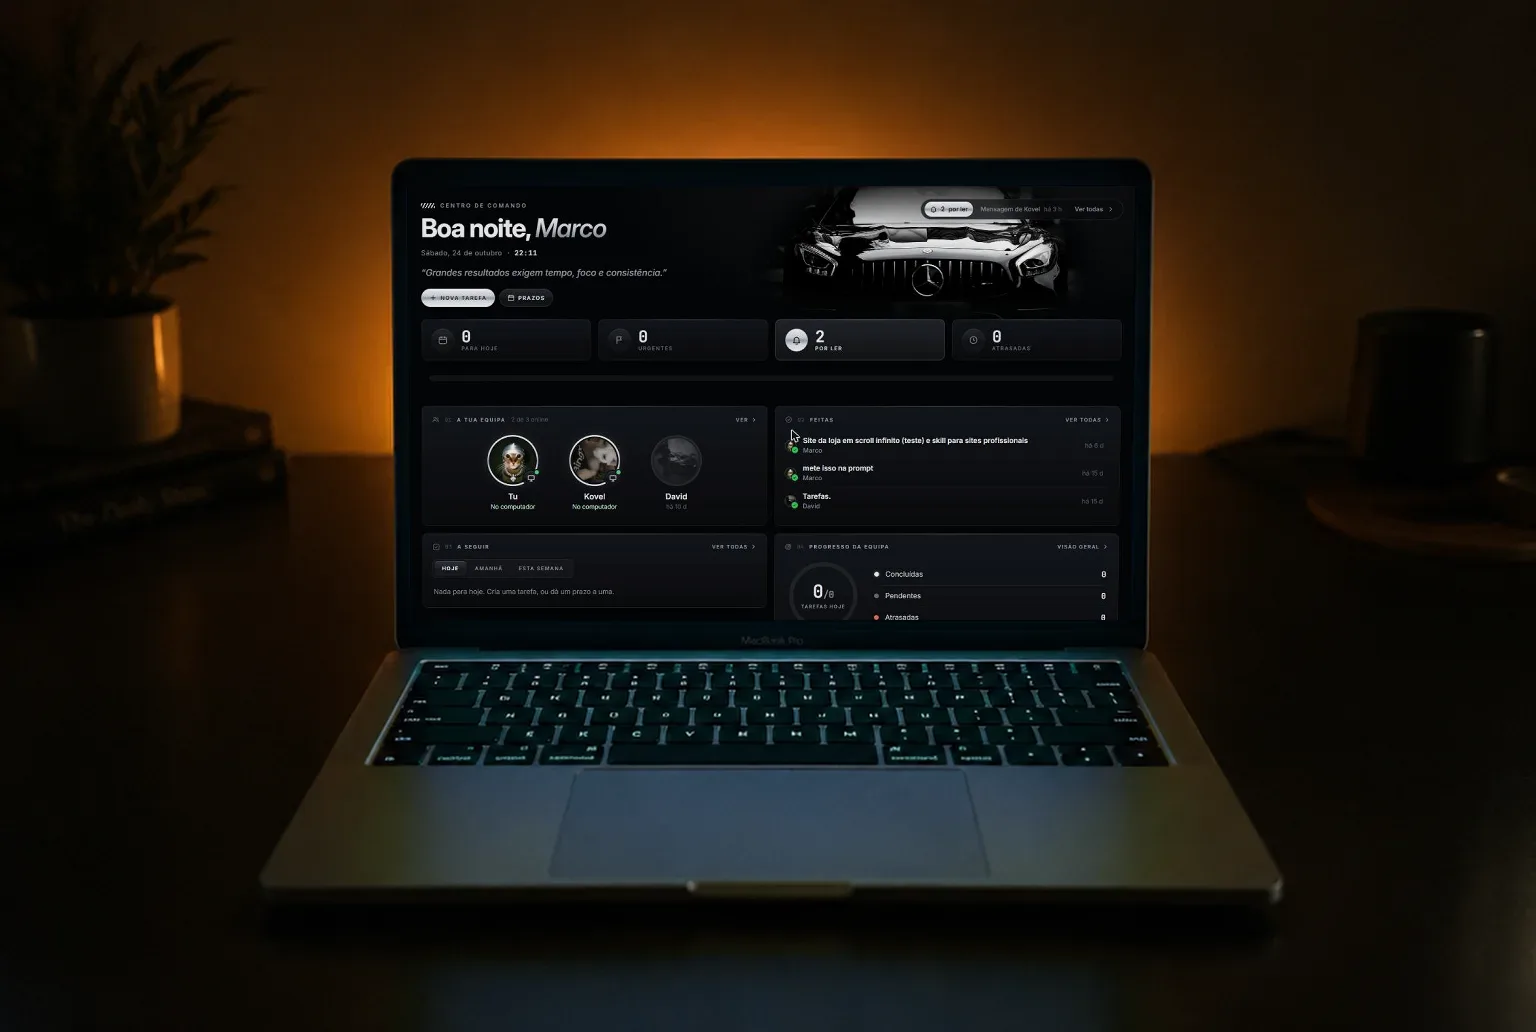
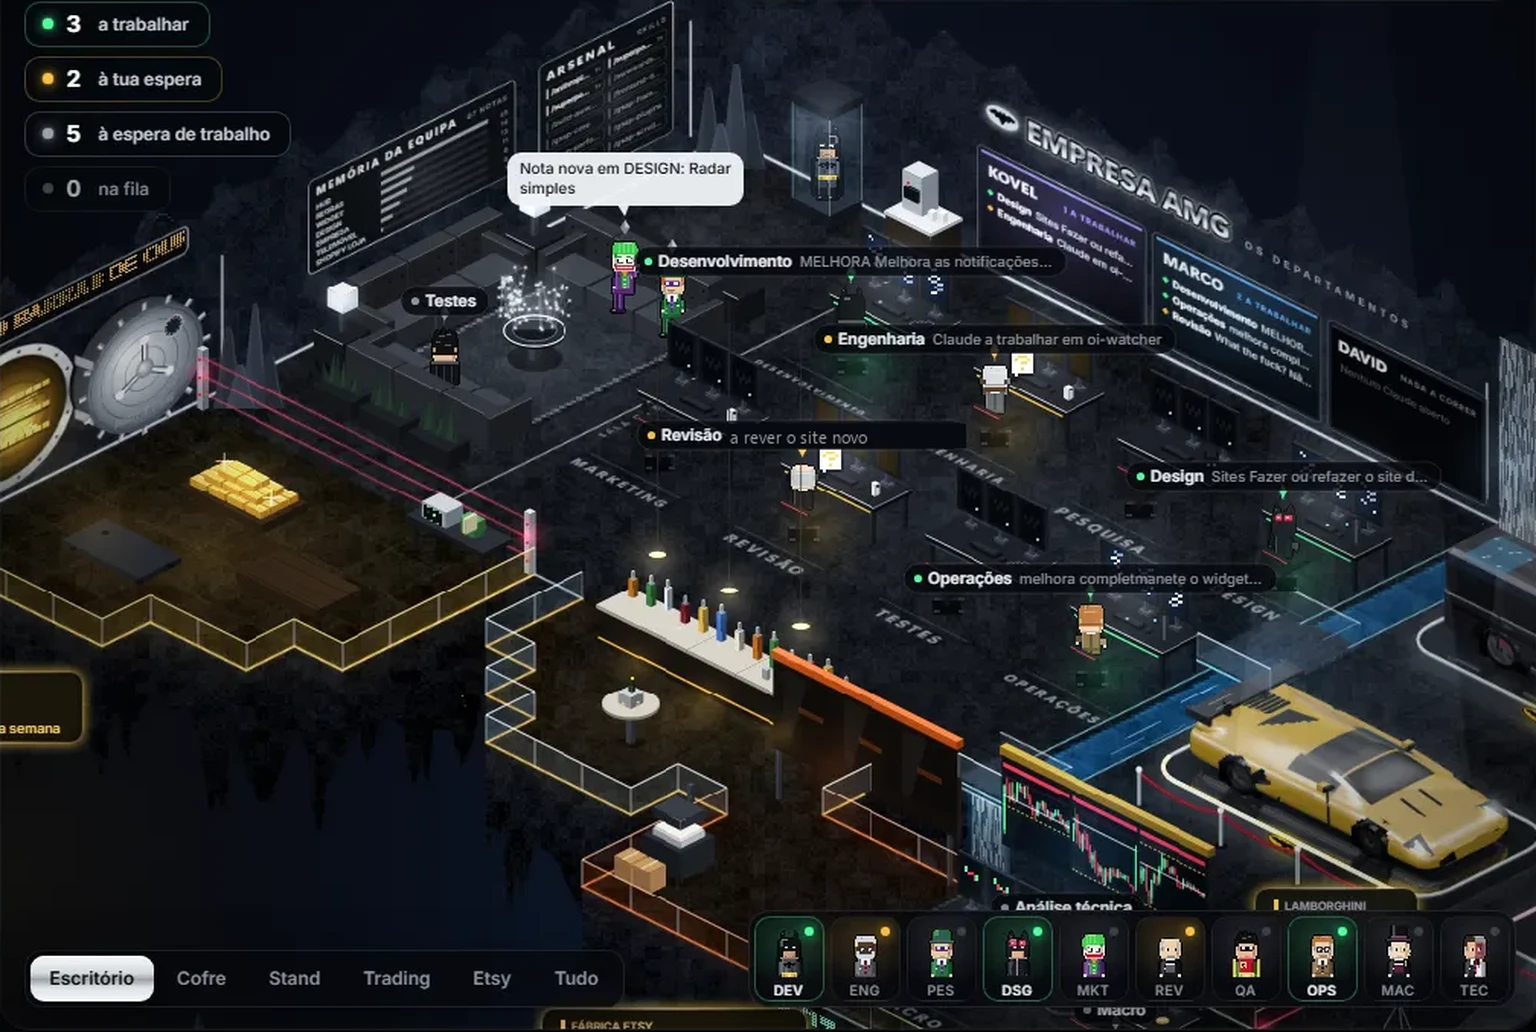
Project pictures: real screens of the sites instead of dark laptop photos (Maison Verde hero, Ferreras watch, ALCHE 3D gallery, Nfinite particle layers, BareDesk store) and AMG Hub as the isometric company office

diff --git a/projects.html b/projects.html
@@ -14,7 +14,7 @@
 <link rel="preconnect" href="https://fonts.googleapis.com">
 <link rel="preconnect" href="https://fonts.gstatic.com" crossorigin>
 <link href="https://fonts.googleapis.com/css2?family=Cinzel:wght@500;600&family=Cormorant+Garamond:wght@500;600;700&family=Montserrat:wght@400;500;600&display=swap" rel="stylesheet">
-<link rel="stylesheet" href="estilo.css?v=49">
+<link rel="stylesheet" href="estilo.css?v=51">
 <link rel="stylesheet" href="botoes.css?v=4">
 <link rel="stylesheet" href="tema.css?v=1">
 <script defer src="js/botoes.js?v=1"></script>
@@ -46,7 +46,7 @@
   </section>
   <div class="projetos-lista">
   <article class="projeto" id="maison-verde">
-    <figure class="projeto__img projeto__img--foto"><a href="work/maison-verde/" target="_blank" rel="noopener"><img class="caso__pc" src="img/m-maisonverde.webp" alt="Maison Verde jewellery website on a laptop" width="1536" height="1032" loading="lazy"></a></figure>
+    <figure class="projeto__img projeto__img--foto"><a href="work/maison-verde/" target="_blank" rel="noopener"><img class="caso__pc" src="img/s-maison.webp" alt="Maison Verde jewellery website on a laptop" width="1536" height="1032" loading="lazy"></a></figure>
     <div class="projeto__txt">
       <p class="chapeu">01 · Fine jewellery · concept</p>
       <h2>Maison Verde</h2>
@@ -59,7 +59,7 @@
     </div>
   </article>
   <article class="projeto" id="ferreras">
-    <figure class="projeto__img projeto__img--foto"><img class="caso__pc" src="img/m-ferreras.webp" alt="Ferreras — screenshot" width="1536" height="1032" loading="eager"></figure>
+    <figure class="projeto__img projeto__img--foto"><img class="caso__pc" src="img/s-ferreras.webp" alt="Ferreras — screenshot" width="1536" height="1032" loading="eager"></figure>
     <div class="projeto__txt">
       <p class="chapeu">02 · Luxury marketing agency · Barcelona</p>
       <h2>Ferreras</h2>
@@ -72,7 +72,7 @@
     </div>
   </article>
   <article class="projeto" id="baredesk">
-    <figure class="projeto__img projeto__img--foto"><img class="caso__pc" src="img/m-baredesk.webp" alt="BareDesk — screenshot" width="1536" height="1032" loading="lazy"></figure>
+    <figure class="projeto__img projeto__img--foto"><img class="caso__pc" src="img/s-baredesk.webp" alt="BareDesk — screenshot" width="1536" height="1032" loading="lazy"></figure>
     <div class="projeto__txt">
       <p class="chapeu">03 · E-commerce · Europe</p>
       <h2>BareDesk</h2>
@@ -85,7 +85,7 @@
     </div>
   </article>
   <article class="projeto" id="hub-empresa">
-    <figure class="projeto__img projeto__img--foto"><img class="caso__pc" src="img/m-hub-home.webp" alt="AMG Hub: the office as a map of departments and tasks" width="1536" height="1032" loading="lazy"></figure>
+    <figure class="projeto__img projeto__img--foto"><img class="caso__pc" src="img/m-hub-empresa.webp" alt="AMG Hub: the company as an isometric office, every department with its agent and its task" width="1536" height="1032" loading="lazy"></figure>
     <div class="projeto__txt">
       <p class="chapeu">04 · Software · CRM automation</p>
       <h2>AMG Hub</h2>
@@ -98,7 +98,7 @@
     </div>
   </article>
   <article class="projeto" id="alche">
-    <figure class="projeto__img projeto__img--foto"><a href="https://alche.studio/" target="_blank" rel="noopener"><img class="caso__pc" src="img/m-alche.webp" alt="ALCHE website: a 3D gallery of works floating in space" width="1536" height="1032" loading="lazy"></a></figure>
+    <figure class="projeto__img projeto__img--foto"><a href="https://alche.studio/" target="_blank" rel="noopener"><img class="caso__pc" src="img/s-alche.webp" alt="ALCHE website: a 3D gallery of works floating in space" width="1536" height="1032" loading="lazy"></a></figure>
     <div class="projeto__txt">
       <p class="chapeu">05 · Immersive studio, Tokyo</p>
       <h2>ALCHE</h2>
@@ -116,7 +116,7 @@
     </div>
   </article>
   <article class="projeto" id="nfinite">
-    <figure class="projeto__img projeto__img--foto"><a href="https://nfinitepaper.com/#technology" target="_blank" rel="noopener"><img class="caso__pc" src="img/m-nfinite.webp" alt="Nfinite website: hundreds of layers drawn with particles" width="1536" height="1032" loading="lazy"></a></figure>
+    <figure class="projeto__img projeto__img--foto"><a href="https://nfinitepaper.com/#technology" target="_blank" rel="noopener"><img class="caso__pc" src="img/s-nfinite.webp" alt="Nfinite website: hundreds of layers drawn with particles" width="1536" height="1032" loading="lazy"></a></figure>
     <div class="projeto__txt">
       <p class="chapeu">06 · Materials tech, Canada</p>
       <h2>Nfinite</h2>

diff --git a/index.html b/index.html
@@ -14,7 +14,7 @@
 <link rel="preconnect" href="https://fonts.googleapis.com">
 <link rel="preconnect" href="https://fonts.gstatic.com" crossorigin>
 <link href="https://fonts.googleapis.com/css2?family=Cinzel:wght@500;600&family=Cormorant+Garamond:wght@500;600;700&family=Montserrat:wght@400;500;600&display=swap" rel="stylesheet">
-<link rel="stylesheet" href="estilo.css?v=49">
+<link rel="stylesheet" href="estilo.css?v=51">
 <link rel="stylesheet" href="botoes.css?v=4">
 <link rel="stylesheet" href="tema.css?v=1">
 <link rel="stylesheet" href="capa.css?v=2">
@@ -158,7 +158,7 @@
     <div class="casos">
       <article class="caso caso--largo">
         <figure>
-          <a href="work/maison-verde/" target="_blank" rel="noopener"><img class="caso__pc" src="img/m-maisonverde.webp" alt="Maison Verde jewellery website on a laptop" width="1536" height="1032" loading="lazy"></a>
+          <a href="work/maison-verde/" target="_blank" rel="noopener"><img class="caso__pc" src="img/s-maison.webp" alt="Maison Verde jewellery website on a laptop" width="1536" height="1032" loading="lazy"></a>
         </figure>
         <div class="caso__txt">
           <p class="etiquetas"><span>Website design</span><span>Luxury e-commerce</span><span>Concept</span></p>
@@ -169,7 +169,7 @@
 
       <article class="caso caso--largo">
         <figure>
-          <img class="caso__pc" src="img/m-ferreras.webp" alt="Ferreras website: a gold watch and the headline 24 hours at the height of your brand" width="1536" height="1032" loading="lazy">
+          <img class="caso__pc" src="img/s-ferreras.webp" alt="Ferreras website: a gold watch and the headline 24 hours at the height of your brand" width="1536" height="1032" loading="lazy">
         </figure>
         <div class="caso__txt">
           <p class="etiquetas"><span>Website</span><span>Design</span><span>Video</span></p>
@@ -179,7 +179,7 @@
 
       <article class="caso">
         <figure>
-          <a href="https://alche.studio/" target="_blank" rel="noopener"><img class="caso__pc" src="img/m-alche.webp" alt="ALCHE website: a 3D gallery of works floating in space" width="1536" height="1032" loading="lazy"></a>
+          <a href="https://alche.studio/" target="_blank" rel="noopener"><img class="caso__pc" src="img/s-alche.webp" alt="ALCHE website: a 3D gallery of works floating in space" width="1536" height="1032" loading="lazy"></a>
         </figure>
         <div class="caso__txt">
           <p class="etiquetas"><span>WebGL</span><span>3D</span><span>Sound</span></p>
@@ -190,7 +190,7 @@
 
       <article class="caso">
         <figure>
-          <a href="https://nfinitepaper.com/#technology" target="_blank" rel="noopener"><img class="caso__pc" src="img/m-nfinite.webp" alt="Nfinite website: hundreds of layers drawn with particles" width="1536" height="1032" loading="lazy"></a>
+          <a href="https://nfinitepaper.com/#technology" target="_blank" rel="noopener"><img class="caso__pc" src="img/s-nfinite.webp" alt="Nfinite website: hundreds of layers drawn with particles" width="1536" height="1032" loading="lazy"></a>
         </figure>
         <div class="caso__txt">
           <p class="etiquetas"><span>WebGL</span><span>Particles</span><span>B2B</span></p>
@@ -201,7 +201,7 @@
 
       <article class="caso caso--largo">
         <figure>
-          <img class="caso__pc" src="img/m-baredesk.webp" alt="BareDesk store: small desk, big mess, desk kits with prices" width="1536" height="1032" loading="lazy">
+          <img class="caso__pc" src="img/s-baredesk.webp" alt="BareDesk store: small desk, big mess, desk kits with prices" width="1536" height="1032" loading="lazy">
         </figure>
         <div class="caso__txt">
           <p class="etiquetas"><span>E-commerce</span><span>Brand</span></p>
@@ -233,7 +233,7 @@
 
       <article class="caso caso--largo caso--escuro">
         <figure class="so-pc">
-          <img class="caso__pc" src="img/m-hub-home.webp" alt="AMG Hub: the command centre with today's tasks, the team online and team progress" width="1536" height="1032" loading="lazy"></figure>
+          <img class="caso__pc" src="img/m-hub-empresa.webp" alt="AMG Hub: the company as an isometric office, every department with its agent and its task" width="1536" height="1032" loading="lazy"></figure>
         <div class="caso__txt">
           <p class="etiquetas"><span>CRM</span><span>Process automation</span><span>Desktop + phone</span></p>
           <h3>AMG Hub — CRM that runs the office</h3>

diff --git a/estilo.css b/estilo.css
@@ -597,7 +597,7 @@ img, svg, canvas { display: block; max-width: 100%; }
   mix-blend-mode: screen; transition: translate 1.1s var(--curva);
 }
 .caso figure:has(a)::before, .projeto__img:has(a)::before {
-  content: "→"; position: absolute; top: 1rem; right: 1rem; z-index: 3; width: 44px; height: 44px; border-radius: 50%;
+  content: "→"; position: absolute; bottom: 1rem; right: 1rem; z-index: 3; width: 44px; height: 44px; border-radius: 50%;
   display: grid; place-items: center; font: 500 1.1rem/1 var(--letra); color: var(--tinta); pointer-events: none;
   background: rgb(11 12 15 / .45); box-shadow: inset 0 0 0 1px rgb(243 235 221 / .35);
   transition: background-color .3s var(--curva), color .3s var(--curva), transform .5s var(--curva);
@@ -610,3 +610,6 @@ img, svg, canvas { display: block; max-width: 100%; }
   .caso h3 { transition: color .3s var(--curva); }
 }
 @media (hover: none) { .caso figure img, .caso figure video, .projeto__img img, .outro__img img { filter: none; } }
+/* the project pictures are now real screens, not laptop photos: a thin edge so the dark ones keep their shape */
+.projeto__img--foto .caso__pc, .caso figure .caso__pc { box-shadow: 0 0 0 1px rgb(243 235 221 / .12), 0 40px 80px -40px rgb(0 0 0 / .9); }
+.caso figure:has(img[src*="/s-"]) { aspect-ratio: 1536 / 1032; background: #0b0b0c; }

diff --git a/career.html b/career.html
@@ -14,7 +14,7 @@
 <link rel="preconnect" href="https://fonts.googleapis.com">
 <link rel="preconnect" href="https://fonts.gstatic.com" crossorigin>
 <link href="https://fonts.googleapis.com/css2?family=Cinzel:wght@500;600&family=Cormorant+Garamond:wght@500;600;700&family=Montserrat:wght@400;500;600&display=swap" rel="stylesheet">
-<link rel="stylesheet" href="estilo.css?v=49">
+<link rel="stylesheet" href="estilo.css?v=51">
 <link rel="stylesheet" href="botoes.css?v=4">
 <link rel="stylesheet" href="tema.css?v=1">
 <script defer src="js/botoes.js?v=1"></script>
